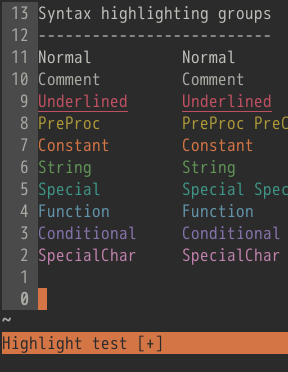
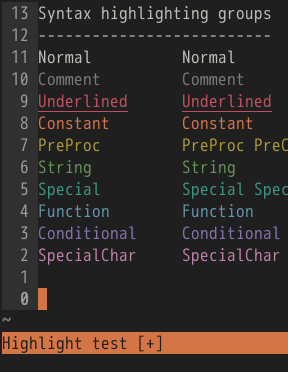
update screenshots

Changed region(s): [[0.0, 0.0, 0.375, 0.8871], [0.625, 0.2957, 1.0, 0.414], [0.625, 0.1774, 0.8438, 0.2366]]

diff --git a/transmogrify.md b/transmogrify.md
@@ -29,8 +29,8 @@ These are the Vim commands applied to the 'base16-solarized' colour scheme files
 %s/f7ca88/ab9838/ |
 %s/a1b56c/609456/ |
 %s/86c1b9/3e9486/ |
-%s/7cafc2/bfbdb8/ |
-%s/ba8baf/e0dace/ |
+%s/7cafc2/6393ab/ |
+%s/ba8baf/8572ab/ |
 %s/a16946/bf80aa/ |
 
 %s/Character",    s:gui08, "", s:cterm08/Character",    s:gui09, "", s:cterm09/ |
